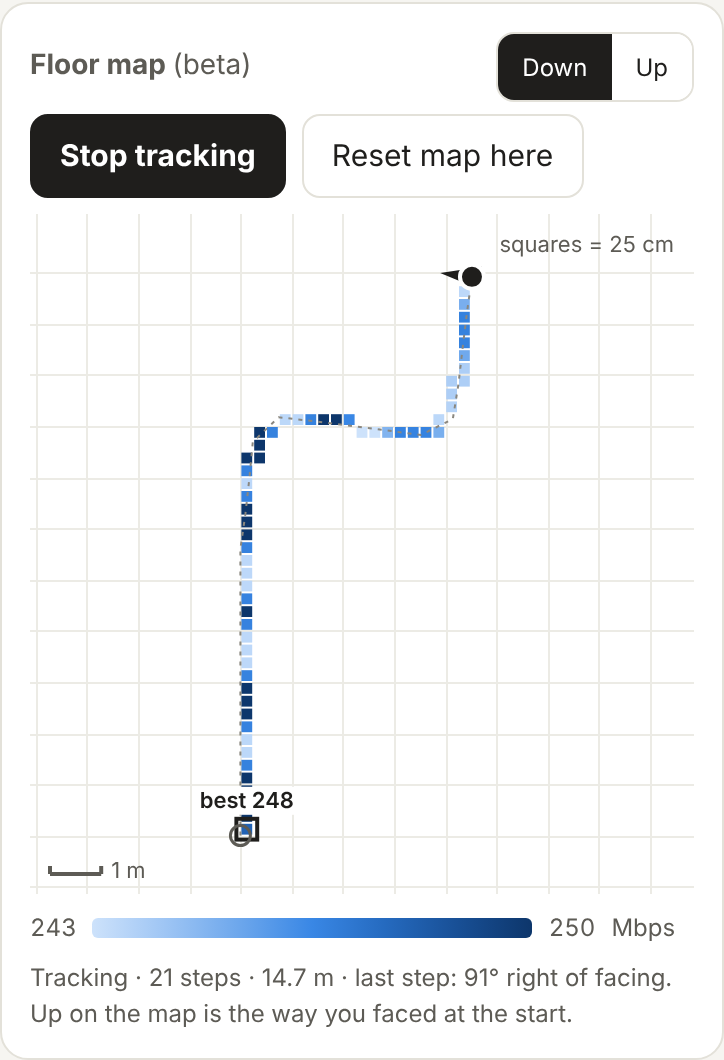
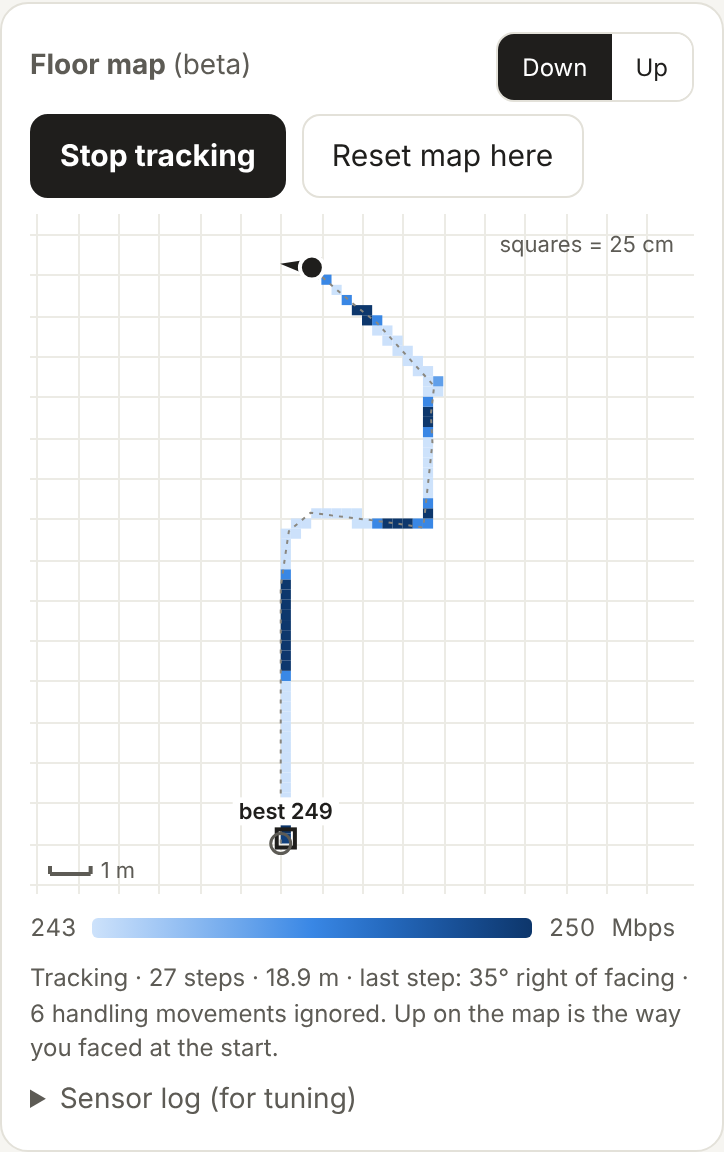
Floor map: ignore phone handling, add sensor log recorder
- Steps need a steady rhythm of three bumps 0.33-0.85 s apart
- Bumps with >15 deg tilt within the step, or mostly sideways phone
  motion (horizontal/vertical RMS > 1.4), count as handling and are
  ignored; the status line shows how many were ignored
- Sensor log recorder (Floor map > Sensor log): raw motion and
  orientation, step candidates and map decisions, saved via the share
  sheet or download as JSON for offline replay and tuning

Claude-Session: https://claude.ai/code/session_01GWUhVJXQ53LJuCYRngp3u4

Changed region(s): [[0.0304, 0.0311, 0.942, 0.9651], [0.1519, 0.2491, 0.3039, 0.3113], [0.8812, 0.0311, 0.942, 0.0934]]

diff --git a/index.html b/index.html
@@ -165,6 +165,18 @@
       <span id="mapMin">–</span><i class="ramp" id="mapRamp"></i><span id="mapMax">–</span><span>Mbps</span>
     </div>
     <p class="hint" id="mapStatus">Hold the phone in front of you, screen up, and walk normally. Press Reset map where you want the origin.</p>
+    <details style="margin-top:8px">
+      <summary>Sensor log (for tuning)</summary>
+      <p class="hint">Records raw motion and orientation readings plus what the map decided, so the tracking can be replayed and tuned. Say what you did in the box, then record the walk. It stops after 3 minutes.</p>
+      <div class="row" style="margin-top:6px">
+        <input id="recNote" type="text" placeholder="e.g. 3 steps diagonally forward-left, turned, walked back">
+      </div>
+      <div class="row" style="margin-top:6px">
+        <button id="recBtn">Record sensor log</button>
+        <button id="recSaveBtn" disabled>Save log</button>
+        <span class="hint" id="recInfo" style="margin:0"></span>
+      </div>
+    </details>
   </section>
 
   <section class="card">
@@ -559,6 +571,7 @@
     hist: [{ t: Date.now(), x: 0, y: 0 }], lastPos: null,
     cells: new Map(), path: [{ x: 0, y: 0 }],
     g: [0, 0, 0], gInit: false, vs: 0, armed: true, lastPeakT: -1e9, walking: false, signVote: 0,
+    bumps: [], win: { v2: 0, h2: 0 }, ignored: 0, rec: null,
     R: null, eb: null, ls: null, prevZ: null, lastT: 0, dirAcc: [0, 0, 0], prevAcc: [0, 0, 0],
     cal: { n: 0, s: 0, sign: 1 }, lastDir: '', lastWorld: 0, lastDirT: 0,
     gotMotion: false, gotOrient: false, hover: null
@@ -592,6 +605,8 @@
   function onOrient(e) {
     if (e.alpha == null || e.beta == null || e.gamma == null) return;
     M.gotOrient = true;
+    if (M.rec) M.rec.o.push([Math.round(performance.now() - M.rec.t0), +e.alpha.toFixed(2), +e.beta.toFixed(2), +e.gamma.toFixed(2),
+      e.webkitCompassHeading != null ? +e.webkitCompassHeading.toFixed(1) : null]);
     const d = Math.PI / 180, a = e.alpha * d, b = e.beta * d, g = e.gamma * d;
     const sa = Math.sin(a), ca = Math.cos(a), sb = Math.sin(b), cb = Math.cos(b), sg = Math.sin(g), cg = Math.cos(g);
     const fx = -sa * cb - ca * sg - sa * sb * cg;
@@ -609,6 +624,8 @@
     const a = e.accelerationIncludingGravity;
     if (!a || a.x == null) return;
     M.gotMotion = true;
+    if (M.rec) { const l = e.acceleration || {}, r = e.rotationRate || {}, f = x => x == null ? null : +x.toFixed(3);
+      M.rec.m.push([Math.round(performance.now() - M.rec.t0), f(a.x), f(a.y), f(a.z), f(l.x), f(l.y), f(l.z), f(r.alpha), f(r.beta), f(r.gamma)]); }
     const v = [a.x, a.y, a.z];
     if (!M.gInit) { M.g = v.slice(); M.gInit = true; return; }
     for (let i = 0; i < 3; i++) M.g[i] += 0.02 * (v[i] - M.g[i]);
@@ -626,17 +643,29 @@
     else if (!M.armed && vert < -0.3) M.armed = true;
   }
 
-  // A bump only counts as a step when it's part of a walking rhythm (another bump 0.25-1.3 s away).
-  // Lifting, lowering or flicking the phone gives one isolated bump, which is ignored.
+  // A bump only counts as a step when it's part of a steady walking rhythm: three bumps 0.33-0.85 s
+  // apart (about 1.2-3 steps a second) with similar spacing. Bumps where the phone tilted a lot, or that were mostly sideways
+  // motion of the phone rather than up-and-down body motion, are treated as handling and ignored.
   function stepCandidate(now) {
-    const gap = now - M.lastPeakT; M.lastPeakT = now;
-    if (gap >= 250 && gap <= 1300) {
-      if (!M.walking) { M.walking = true; step(); }   // the bump that started this walk
-      step();
-    } else {
-      M.walking = false;                              // possible first step: wait for the next one
+    const w = M.win; M.win = { v2: 0, h2: 0 };
+    const ratio = w.v2 > 0 ? Math.sqrt(w.h2 / w.v2) : 0;
+    const prev = M.bumps[M.bumps.length - 1];
+    const gap = prev ? now - prev.t : Infinity;
+    const tilt = w.tilt || 0;
+    const prevGap = M.bumps.length >= 2 ? prev.t - M.bumps[M.bumps.length - 2].t : null;
+    const rhythm = gap >= 330 && gap <= 850 && (prevGap === null || (gap / prevGap > 0.6 && gap / prevGap < 1.6));
+    const handling = prev && (tilt > 15 || ratio > 1.4);
+    const ok = rhythm && !handling;
+    if (M.rec) M.rec.b.push([Math.round(now - M.rec.t0), Number.isFinite(gap) ? Math.round(gap) : null, +tilt.toFixed(1), +ratio.toFixed(2), ok ? 1 : 0]);
+    if (!ok) {
+      if (handling) M.ignored++;
+      M.walking = false; M.bumps = [{ t: now }];
       M.dirAcc = [0, 0, 0]; M.prevAcc = [0, 0, 0];
+      return;
     }
+    M.bumps.push({ t: now }); if (M.bumps.length > 4) M.bumps.shift();
+    if (M.walking) { step(); return; }
+    if (M.bumps.length >= 3) { M.walking = true; step(); step(); step(); }   // the three bumps that set the rhythm
   }
 
   // ---- Which way was the step? ----
@@ -658,6 +687,10 @@
     const dz = (M.ls[2] - (M.prevZ ?? M.ls[2])) / dt; M.prevZ = M.ls[2];
     M.dirAcc[0] += M.ls[0] * dz * dt; M.dirAcc[1] += M.ls[1] * dz * dt;
     M.dirAcc[2] += Math.hypot(M.ls[0], M.ls[1]) * Math.abs(dz) * dt;
+    M.win.v2 += M.ls[2] * M.ls[2]; M.win.h2 += M.ls[0] * M.ls[0] + M.ls[1] * M.ls[1];
+    const u = [R[6], R[7], R[8]];                    // how much the phone tilts during this step
+    if (!M.win.u0) M.win.u0 = u;
+    else M.win.tilt = Math.max(M.win.tilt || 0, Math.acos(Math.min(1, u[0] * M.win.u0[0] + u[1] * M.win.u0[1] + u[2] * M.win.u0[2])) * 180 / Math.PI);
     return M.ls[2];
   }
   const wrap = a => Math.atan2(Math.sin(a), Math.cos(a));
@@ -698,6 +731,7 @@
     M.hist.push({ t: Date.now(), x: M.x, y: M.y });
     if (M.hist.length > 400) M.hist.splice(0, M.hist.length - 400);
     M.path.push({ x: M.x, y: M.y });
+    if (M.rec) M.rec.s.push([Math.round(performance.now() - M.rec.t0), +M.x.toFixed(3), +M.y.toFixed(3), M.lastDir]);
     save(); status(); draw();
   }
   // Position at a past time, interpolating across the step that was in progress then.
@@ -745,7 +779,7 @@
     }
     if ($('startBtn').textContent !== 'Stop') { $('mapStatus').textContent = 'Tracking your position. Press Start at the top to measure speed, so the map can fill in.'; return; }
     const cal = $('optSide').checked && M.cal.n < CAL_STEPS ? ` · walk forward normally to calibrate (${M.cal.n}/${CAL_STEPS})` : '';
-    $('mapStatus').textContent = `Tracking · ${M.steps} steps · ${M.dist.toFixed(1)} m${M.lastDir ? ' · last step: ' + M.lastDir : ''}${cal}. Up on the map is the way you faced at the start.`;
+    $('mapStatus').textContent = `Tracking · ${M.steps} steps · ${M.dist.toFixed(1)} m${M.lastDir ? ' · last step: ' + M.lastDir : ''}${M.ignored ? ` · ${M.ignored} handling movement${M.ignored > 1 ? 's' : ''} ignored` : ''}${cal}. Up on the map is the way you faced at the start.`;
   }
   function resetMap() {
     M.x = 0; M.y = 0; M.steps = 0; M.dist = 0; M.cells = new Map(); M.path = [{ x: 0, y: 0 }];
@@ -764,7 +798,7 @@
     if (M.frameStale) resetMap();
     M.gInit = false; M.needRef = !Number.isFinite(M.headingRef); M.lastPos = null;
     M.eb = null; M.prevZ = null; M.dirAcc = [0, 0, 0]; M.prevAcc = [0, 0, 0]; M.cal = { n: 0, s: 0, sign: 1 }; M.lastDir = '';
-    M.walking = false; M.lastPeakT = -1e9; M.signVote = 0;
+    M.walking = false; M.lastPeakT = -1e9; M.signVote = 0; M.bumps = []; M.win = { v2: 0, h2: 0 }; M.ignored = 0;
     M.hist.push({ t: Date.now(), x: M.x, y: M.y });
     addEventListener('devicemotion', onMotion); addEventListener('deviceorientation', onOrient);
     M.tracking = true; $('mapTrackBtn').textContent = 'Stop tracking'; status();
@@ -774,6 +808,7 @@
     }, 2500);
   }
   function stopTracking() {
+    if (M.rec) stopRec();
     removeEventListener('devicemotion', onMotion); removeEventListener('deviceorientation', onOrient);
     M.tracking = false; $('mapTrackBtn').textContent = 'Start tracking'; status(); save();
   }
@@ -905,6 +940,43 @@
   };
   const applyLayer = () => document.querySelectorAll('[data-layer]').forEach(b => b.setAttribute('aria-pressed', b.dataset.layer === M.layer));
   document.querySelectorAll('[data-layer]').forEach(b => b.onclick = () => { M.layer = b.dataset.layer; applyLayer(); save(); draw(); });
+
+  let recTimer = null, recBlob = null;
+  async function startRec() {
+    if (!M.tracking) { await startTracking(); if (!M.tracking) return; }
+    M.rec = { t0: performance.now(), started: new Date().toISOString(), m: [], o: [], s: [], b: [] };
+    recBlob = null; $('recSaveBtn').disabled = true; $('recBtn').textContent = 'Stop recording';
+    recTimer = setInterval(() => {
+      const sec = (performance.now() - M.rec.t0) / 1000;
+      $('recInfo').textContent = `Recording ${sec.toFixed(0)} s · ${M.rec.m.length} readings`;
+      if (sec >= 180) stopRec();
+    }, 500);
+  }
+  function stopRec() {
+    if (!M.rec) return;
+    clearInterval(recTimer);
+    const r = M.rec; M.rec = null;
+    const log = { version: 1, started: r.started, note: $('recNote').value, userAgent: navigator.userAgent,
+      stepLengthCm: +$('optStep').value, directionDetection: $('optSide').checked,
+      fields: { m: 't,ax,ay,az (incl. gravity),lx,ly,lz (no gravity),rotAlpha,rotBeta,rotGamma', o: 't,alpha,beta,gamma,compass',
+        s: 't,x,y,dirLabel (steps the map took)', b: 't,gapMs,maxTiltDegInStep,horizVertRatio,accepted (step candidates)' },
+      m: r.m, o: r.o, s: r.s, b: r.b };
+    recBlob = new Blob([JSON.stringify(log)], { type: 'application/json' });
+    $('recBtn').textContent = 'Record sensor log'; $('recSaveBtn').disabled = false;
+    $('recInfo').textContent = `${((performance.now() - r.t0) / 1000).toFixed(0)} s recorded · ${(recBlob.size / 1024).toFixed(0)} KB`;
+  }
+  async function saveRec() {
+    if (!recBlob) return;
+    const name = `5g-sensor-log-${new Date().toISOString().slice(0, 19).replace(/[:T]/g, '-')}.json`;
+    const file = new File([recBlob], name, { type: 'application/json' });
+    try {
+      if (navigator.canShare && navigator.canShare({ files: [file] })) { await navigator.share({ files: [file], title: name }); return; }
+    } catch (e) { if (e.name === 'AbortError') return; }
+    const a = document.createElement('a'); a.href = URL.createObjectURL(recBlob); a.download = name;
+    document.body.appendChild(a); a.click(); a.remove();
+  }
+  $('recBtn').onclick = () => M.rec ? stopRec() : startRec();
+  $('recSaveBtn').onclick = saveRec;
 
   window.FloorMap = { addSample, refresh: () => status(), _test: { M, step, onOrient, onMotion } };
   applyLayer(); setEnabled(M.enabled);
